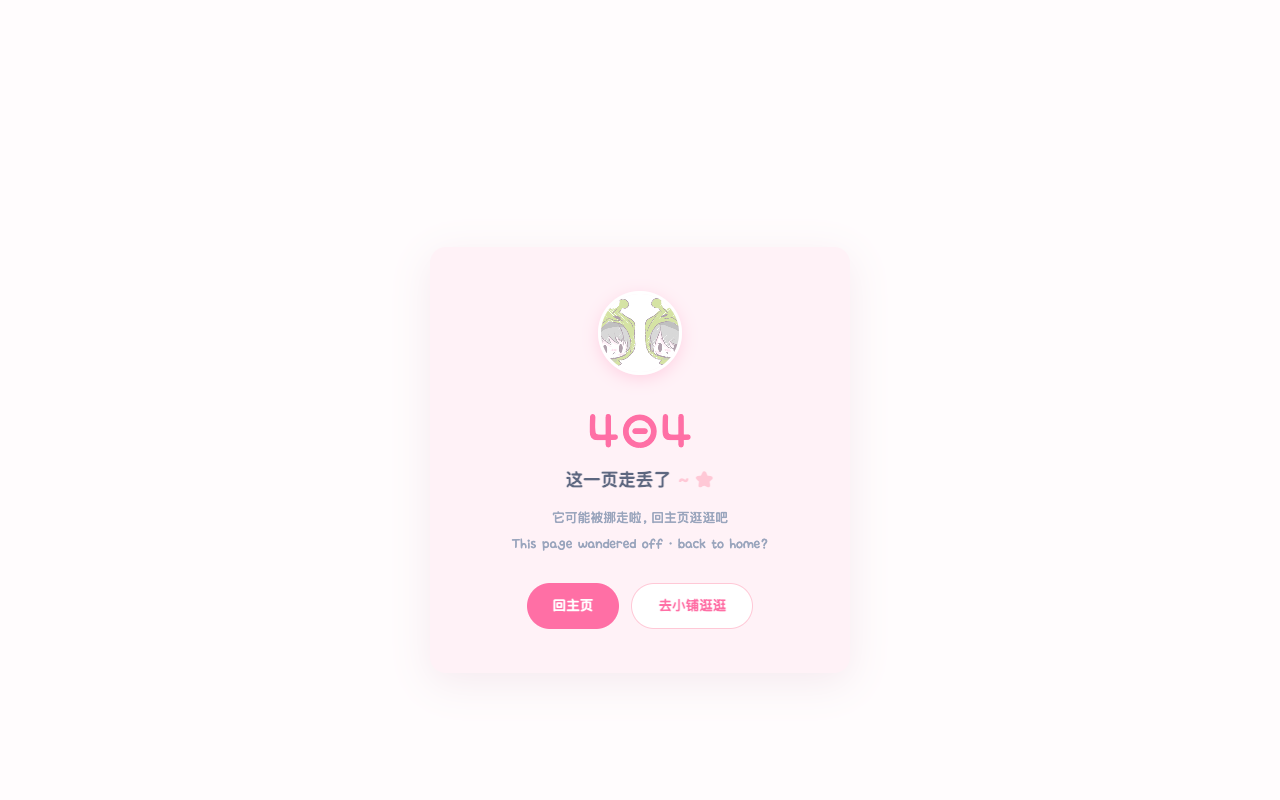
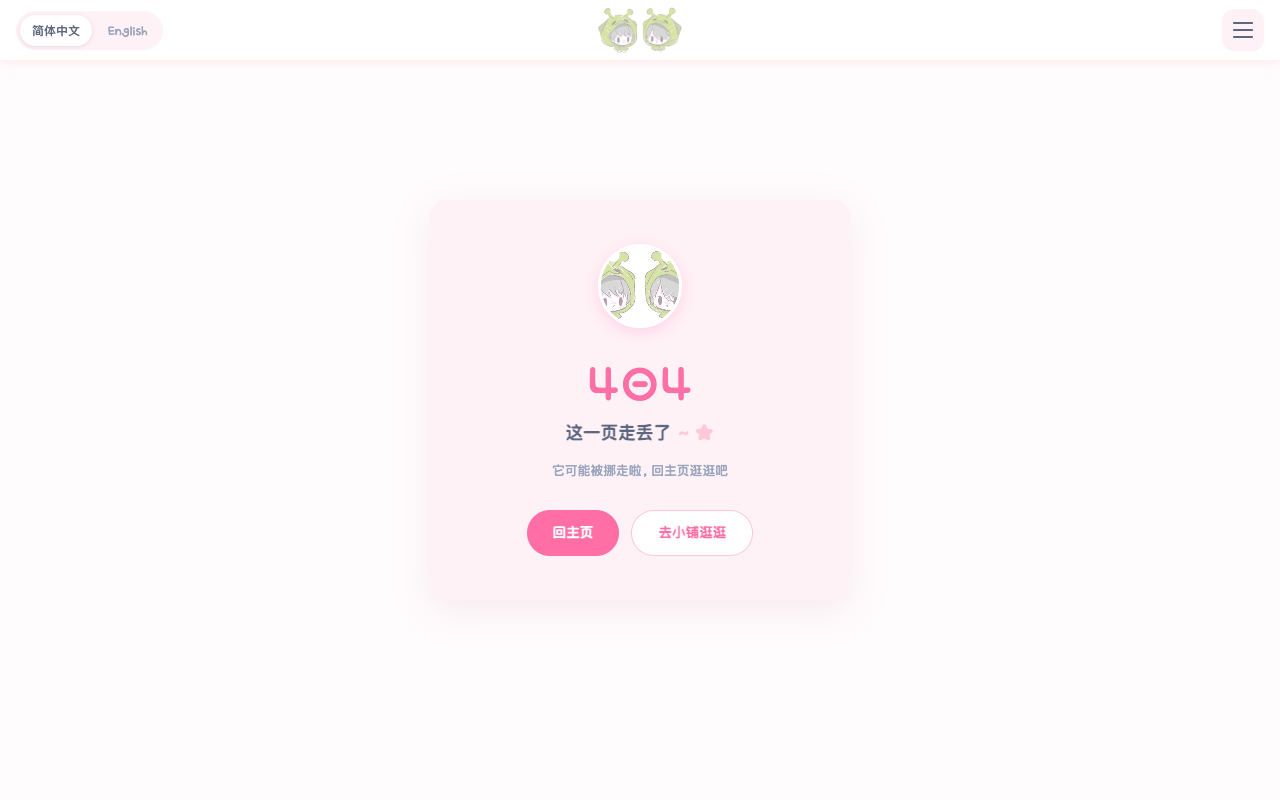
Deploy to domain root (yukicheng.com) via Cola

diff --git a/404.html b/404.html
@@ -47,6 +47,8 @@
       </div>
     </div>
   </div>
+<div class="menu-mask" id="menu-mask"></div>
+<nav class="menu" id="menu"></nav>
 <script>
 (function () {
   var lang = 'zh';
